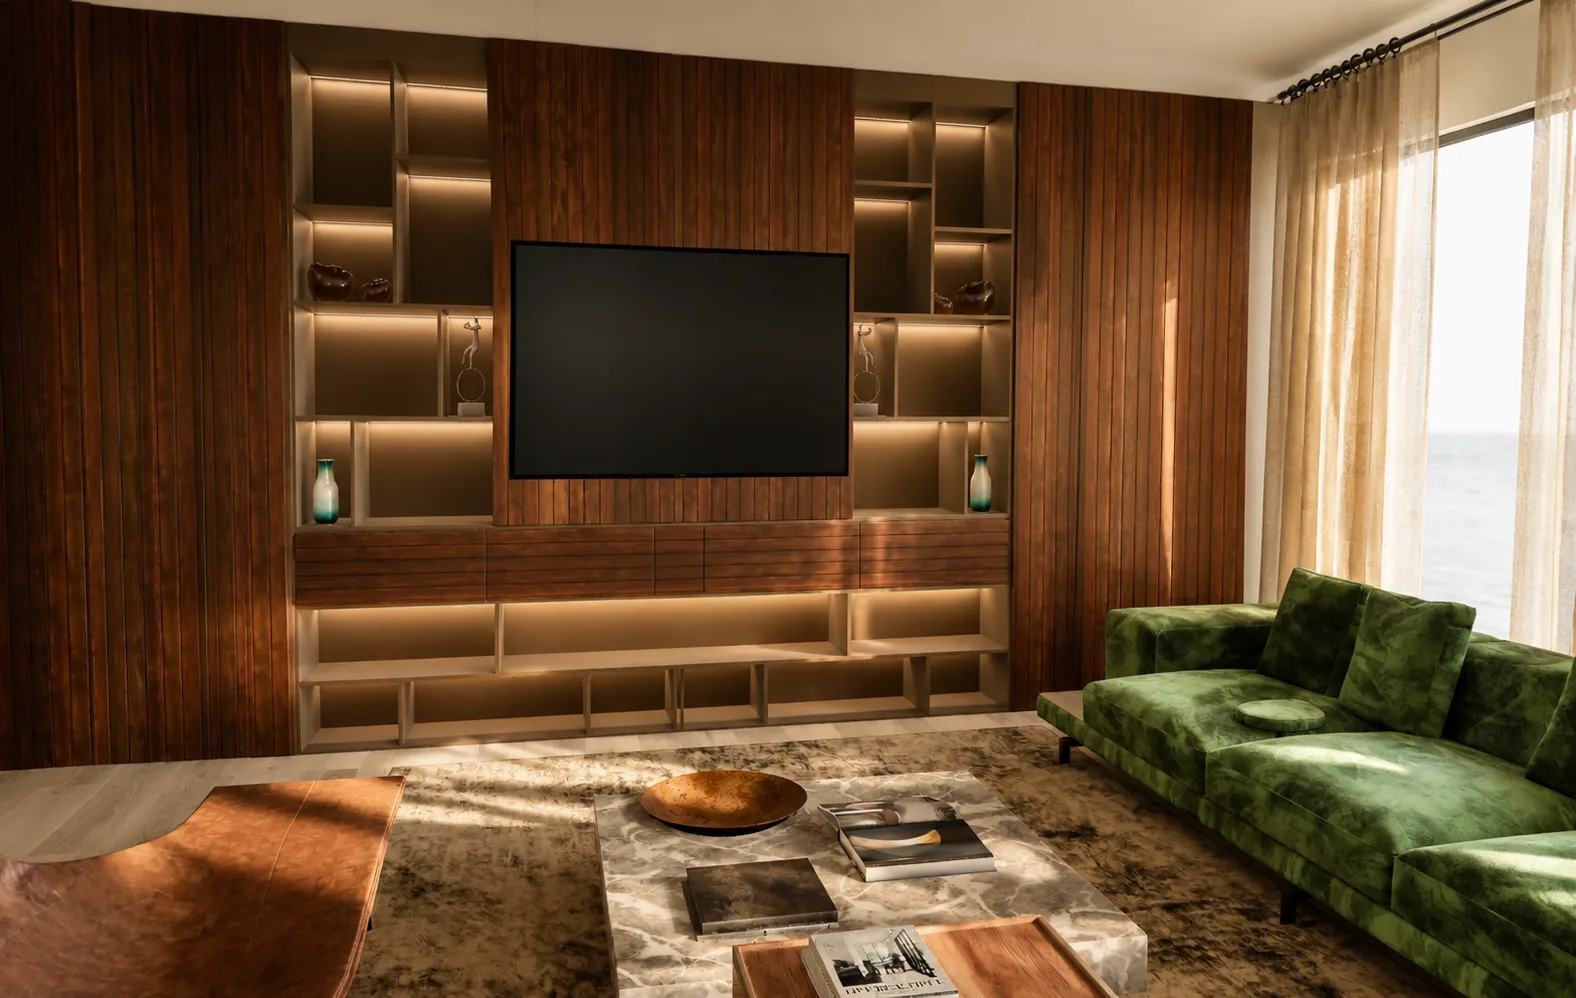
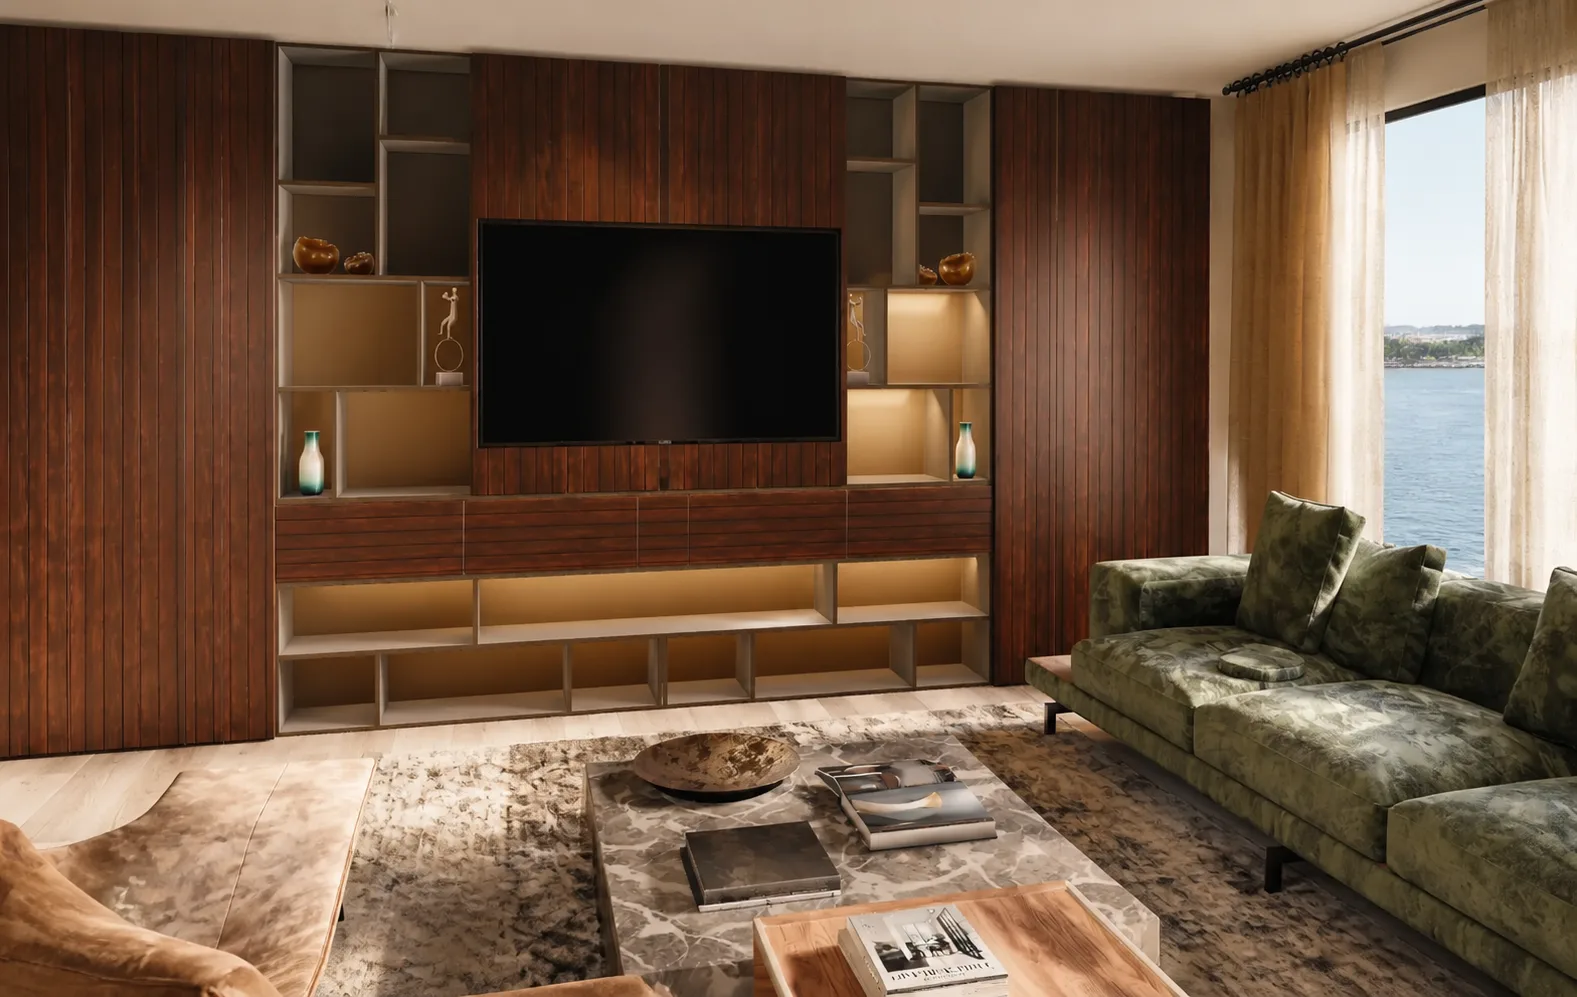
Generate the remaining seven Canal pairs; fix the hero fan stair
Owner request: generate the other seven raw-to-editorial pairs. Their
raws had been deleted at source and mirrored off the site, so they
were recovered from git history as generation sources and each
editorial was produced with gpt-image-2 under the architectural lock.
Reviewed side by side: geometry, openings and furniture positions
hold in all seven (bath vanity, canal sofa, dining, kitchen island
and lamps, living wall unit, lounge TV wall, primary bed); finishes
are photoreal; nothing added. The raws return to the site only as
the "before" half of each pair.

Data: APARTMENT.pairs now holds all eight honest pairs; the terrace
`pair` alias stays so existing references keep working. The scan
page gains "Every room, the same honesty": a 2x2 grid of drag
comparisons (kitchen, bath, canal, primary) chosen so no image
repeats on the page.

Hero fan: the owner's screenshot showed card 03 sitting higher than
the film card and a dead band under the hero - the film card's wide
aspect made it shorter than the portrait card before it. All four
cards are now portrait with widths 24/30/38/52 percent, so heights
ascend 32 to 65 percent and the film card is tallest, bottoms aligned
on the floor light; hero trimmed to 84svh; fan column widened to
57 percent of the hero. Headline rebalanced (0.95fr column, clamp
4.6vw) so the brief's four lines hold at 1440 and 1920.

Verified in the built output: scan page 5 sliders, 10 of 10 pair
[…]

diff --git a/src/pages/interior/InteriorAiScanApartment.jsx b/src/pages/interior/InteriorAiScanApartment.jsx
@@ -159,6 +159,31 @@ function RawVsReady() {
   );
 }
 
+function MorePairs() {
+  // kitchen, bath, canal, primary: none of these images appear elsewhere on this page
+  const rooms = ['kitchen', 'bath', 'canal', 'primary'];
+  const picks = APARTMENT.pairs.filter((p) => rooms.includes(p.room));
+  return (
+    <section className="idv2-section idv2-dark idv2-acc-capture idv2-bgc idv2-bgc-08">
+      <div className="idv2-inner" style={{ display: 'grid', gap: 24 }}>
+        <div className="idv2-reveal" style={{ display: 'grid', gap: 14, maxWidth: 900 }}>
+          <Eyebrow>EVERY ROOM, THE SAME HONESTY</Eyebrow>
+          <h2 className="idv2-h2">Source on the left. <span className="idv2-acc-text">Design-ready on the right.</span></h2>
+          <p className="idv-lede">Each editorial was generated from its own raw frame with the architecture locked — geometry, openings and furniture positions unchanged.</p>
+        </div>
+        <div className="idv-grid-2">
+          {picks.map((p) => (
+            <div key={p.room} style={{ display: 'grid', gap: 10 }}>
+              <BeforeAfterSlider beforeImg={p.raw} afterImg={p.editorial} beforeLabel="RAW SOURCE" afterLabel="DESIGN-READY" accent="#7FA6C8" accentRGB="127,166,200" />
+              <div className="idv-mono-label">CANAL APARTMENT — {p.label.toUpperCase()}</div>
+            </div>
+          ))}
+        </div>
+      </div>
+    </section>
+  );
+}
+
 function ClientUnderstands() {
   return (
     <section className="idv2-full idv2-acc-capture">
@@ -227,6 +252,7 @@ export default function InteriorAiScanApartment() {
       <WhatExists />
       <Transformation />
       <RawVsReady />
+      <MorePairs />
       <ClientUnderstands />
       <div className="idv2-section idv2-bright idv2-acc-capture">
         <div className="idv2-inner idv2-section--flush" style={{ paddingTop: 'clamp(60px, 7vw, 110px)', paddingBottom: 'clamp(40px, 5vw, 80px)' }}>

diff --git a/src/pages/interior/interior2.css b/src/pages/interior/interior2.css
@@ -76,7 +76,7 @@
   box-shadow: 0 0 44px 10px rgba(216, 165, 80, 0.18);
 }
 /* Hero-sized display: fits the brief's four hard line breaks in a half column. */
-.idv2-display--hero { font-size: clamp(46px, 4.9vw, 92px); line-height: 0.92; }
+.idv2-display--hero { font-size: clamp(46px, 4.6vw, 88px); line-height: 0.92; }
 
 .idv2-dark {
   color: #F5F5F0;
@@ -118,10 +118,13 @@
   box-shadow: 0 30px 80px rgba(0, 0, 0, 0.6), 0 0 0 1px rgba(216, 183, 90, 0.12);
 }
 .idv2-fan-card img { display: block; width: 100%; height: 100%; object-fit: cover; }
-.idv2-fan-card:nth-child(1) { width: 24%; aspect-ratio: 3/4; transform: rotate(-5deg) translateY(-2%); z-index: 1; }
-.idv2-fan-card:nth-child(2) { width: 30%; aspect-ratio: 3/4; margin-left: -7%; transform: rotate(-2deg) translateY(-6%); z-index: 2; }
-.idv2-fan-card:nth-child(3) { width: 38%; aspect-ratio: 3/4; margin-left: -7%; transform: rotate(2deg) translateY(-10%); z-index: 3; }
-.idv2-fan-card:nth-child(4) { width: 50%; aspect-ratio: 16/11; margin-left: -8%; transform: rotate(4deg) translateY(-14%); z-index: 4; }
+/* Ascending stair: every card is portrait, widths grow, so heights grow too
+   (32% -> 40% -> 51% -> 65% of fan width) and the film card is the tallest.
+   Bottoms align on the floor light; rotation stays gentle. */
+.idv2-fan-card:nth-child(1) { width: 24%; aspect-ratio: 3/4; transform: rotate(-3deg); z-index: 1; }
+.idv2-fan-card:nth-child(2) { width: 30%; aspect-ratio: 3/4; margin-left: -6%; transform: rotate(-1.5deg); z-index: 2; }
+.idv2-fan-card:nth-child(3) { width: 38%; aspect-ratio: 3/4; margin-left: -6%; transform: rotate(1.5deg); z-index: 3; }
+.idv2-fan-card:nth-child(4) { width: 52%; aspect-ratio: 4/5; margin-left: -7%; transform: rotate(3deg); z-index: 4; }
 .idv2-fan-card:hover { z-index: 9; }
 .idv2-fan-card .idv-fan-label { background: rgba(8, 8, 10, 0.78); }
 .idv2-fan-card .idv-fan-label .idv-fan-title { color: #F5F5F0; }

diff --git a/src/data/interiorMedia.js b/src/data/interiorMedia.js
@@ -102,6 +102,15 @@ export const APARTMENT = {
   /** The one complete honest pair: the surviving raw + a fresh gpt-image-2
       editorial generated from it under the architectural lock. */
   pair: { room: 'Terrace', raw: `${A}/pairs/terrace-raw.webp`, editorial: `${A}/pairs/terrace-editorial-v2.webp` },
+  /** All eight honest pairs (owner request 2026-08-21): the raw source frame
+      and a gpt-image-2 editorial generated from it under the architectural
+      lock. Raws were recovered from git history as generation sources. */
+  pairs: ['terrace', 'kitchen', 'bath', 'canal', 'primary', 'living', 'dining', 'lounge'].map((r) => ({
+    room: r,
+    label: r[0].toUpperCase() + r.slice(1),
+    raw: `${A}/pairs/${r}-raw.webp`,
+    editorial: `${A}/pairs/${r}-editorial-v2.webp`,
+  })),
 };
 
 // ── MAISON VALMONT — renovation: before → process → after → film ───────────

diff --git a/src/pages/interior/InteriorDesign.jsx b/src/pages/interior/InteriorDesign.jsx
@@ -41,7 +41,7 @@ const HERO_PANELS = [
 function Hero() {
   return (
     <section className="idv2-section idv2-hero">
-      <div className="idv2-inner" style={{ display: 'grid', gridTemplateColumns: 'minmax(360px, 0.95fr) 1.15fr', gap: 'clamp(28px, 4vw, 64px)', alignItems: 'center', minHeight: '92svh' }}>
+      <div className="idv2-inner" style={{ display: 'grid', gridTemplateColumns: 'minmax(340px, 0.95fr) 1.35fr', gap: 'clamp(28px, 4vw, 64px)', alignItems: 'center', minHeight: '84svh', paddingBottom: 'clamp(48px, 5vw, 80px)' }}>
         <div style={{ display: 'grid', gap: 26, alignContent: 'center' }}>
           <motion.div {...rise(0)}><Eyebrow>{IDV_EYEBROW}</Eyebrow></motion.div>
           <motion.h1 {...rise(0.08)} className="idv2-display idv2-display--hero">
